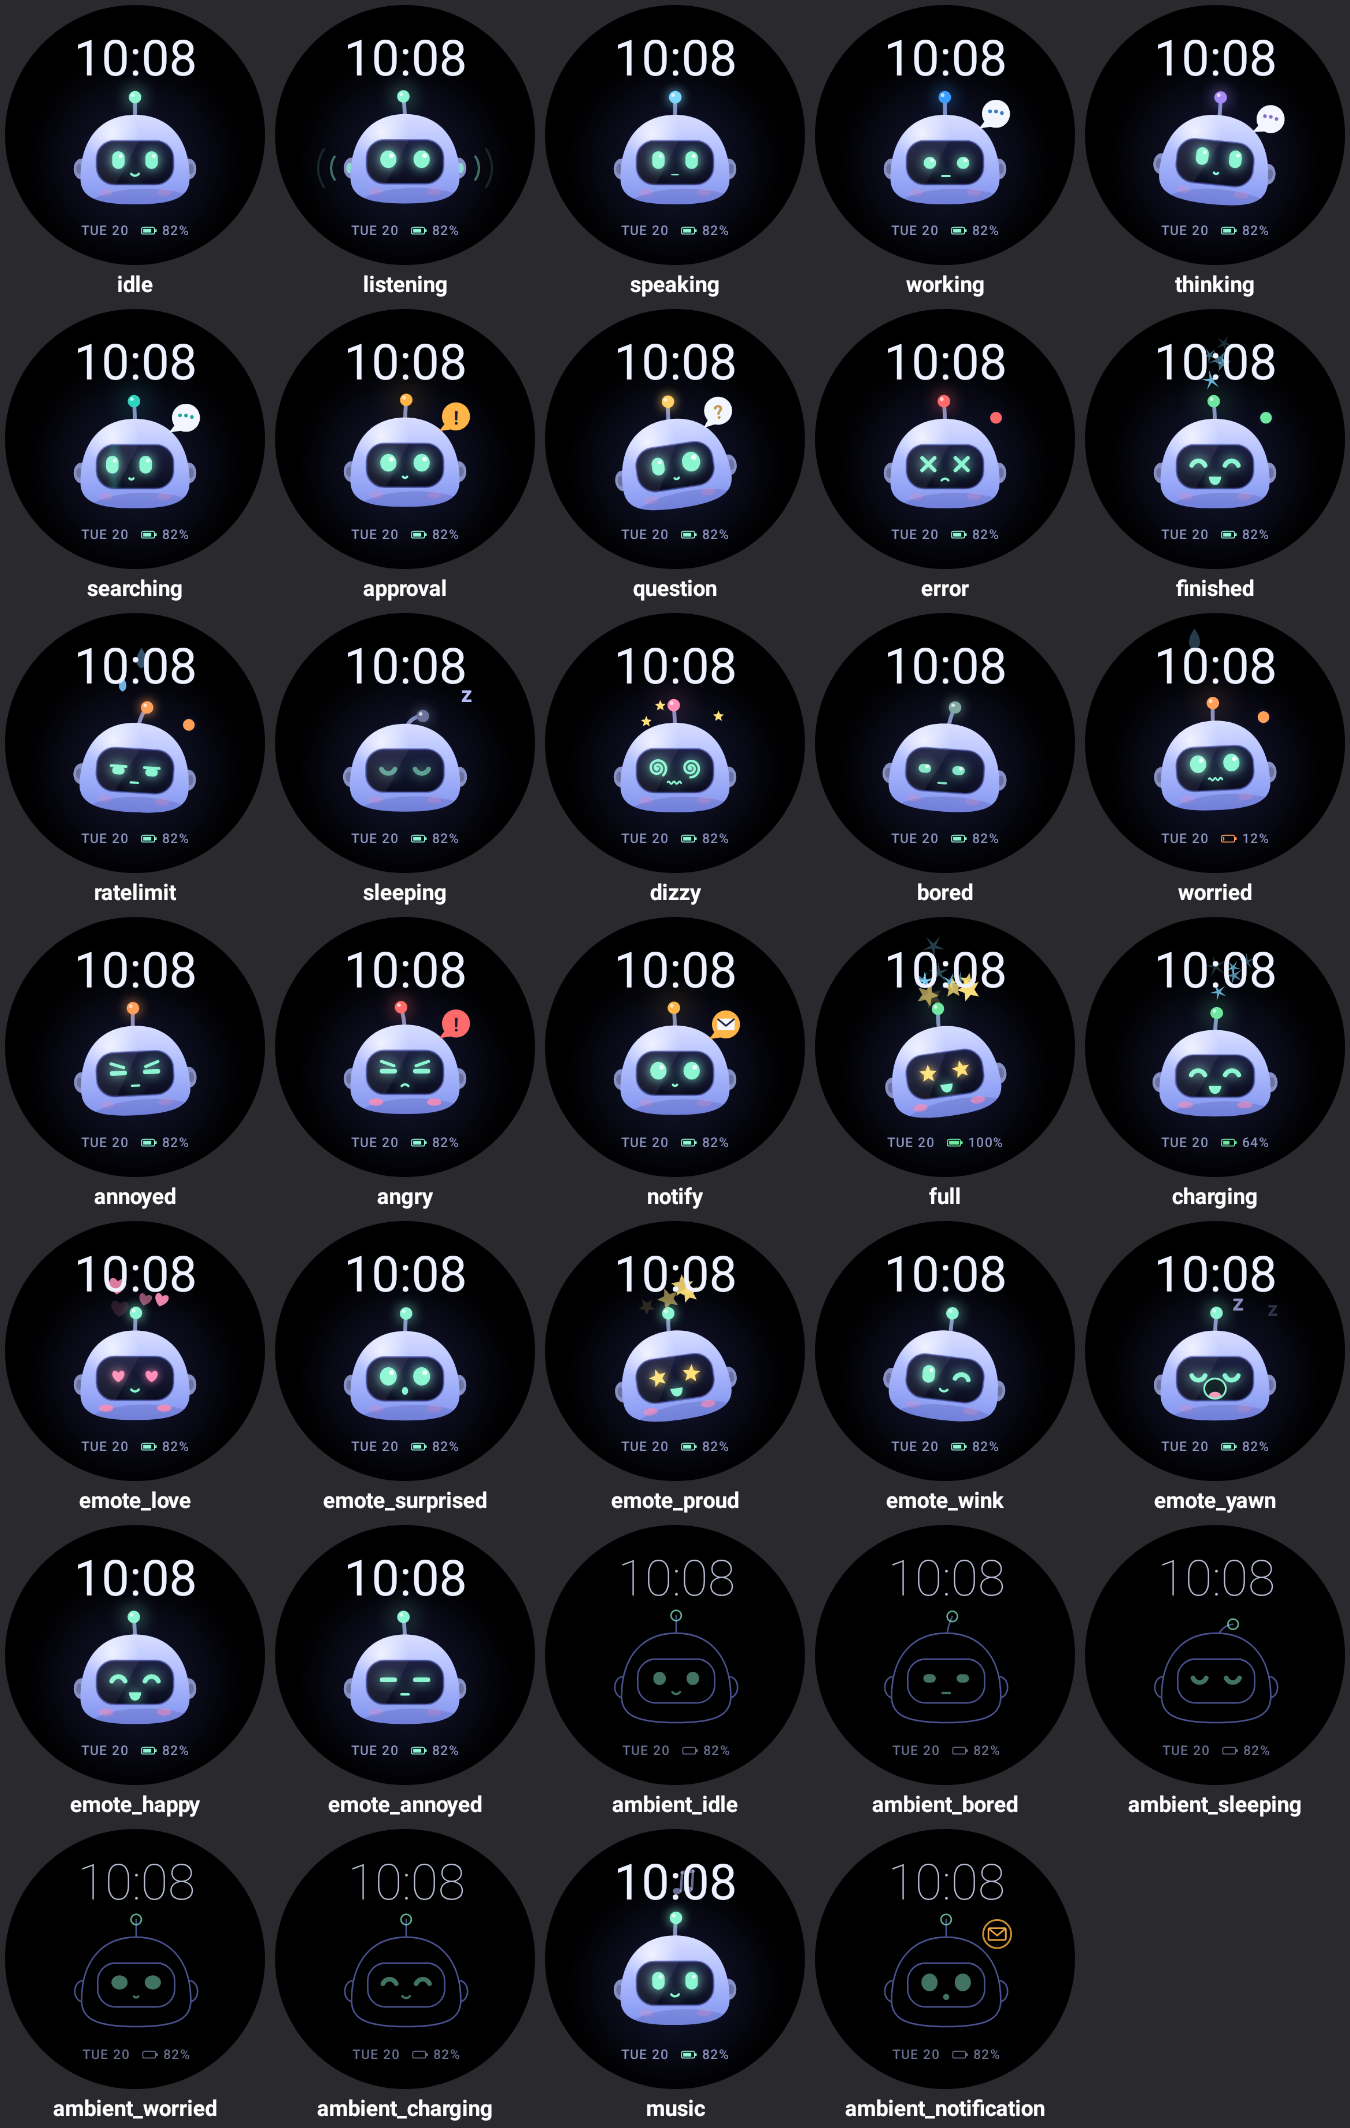
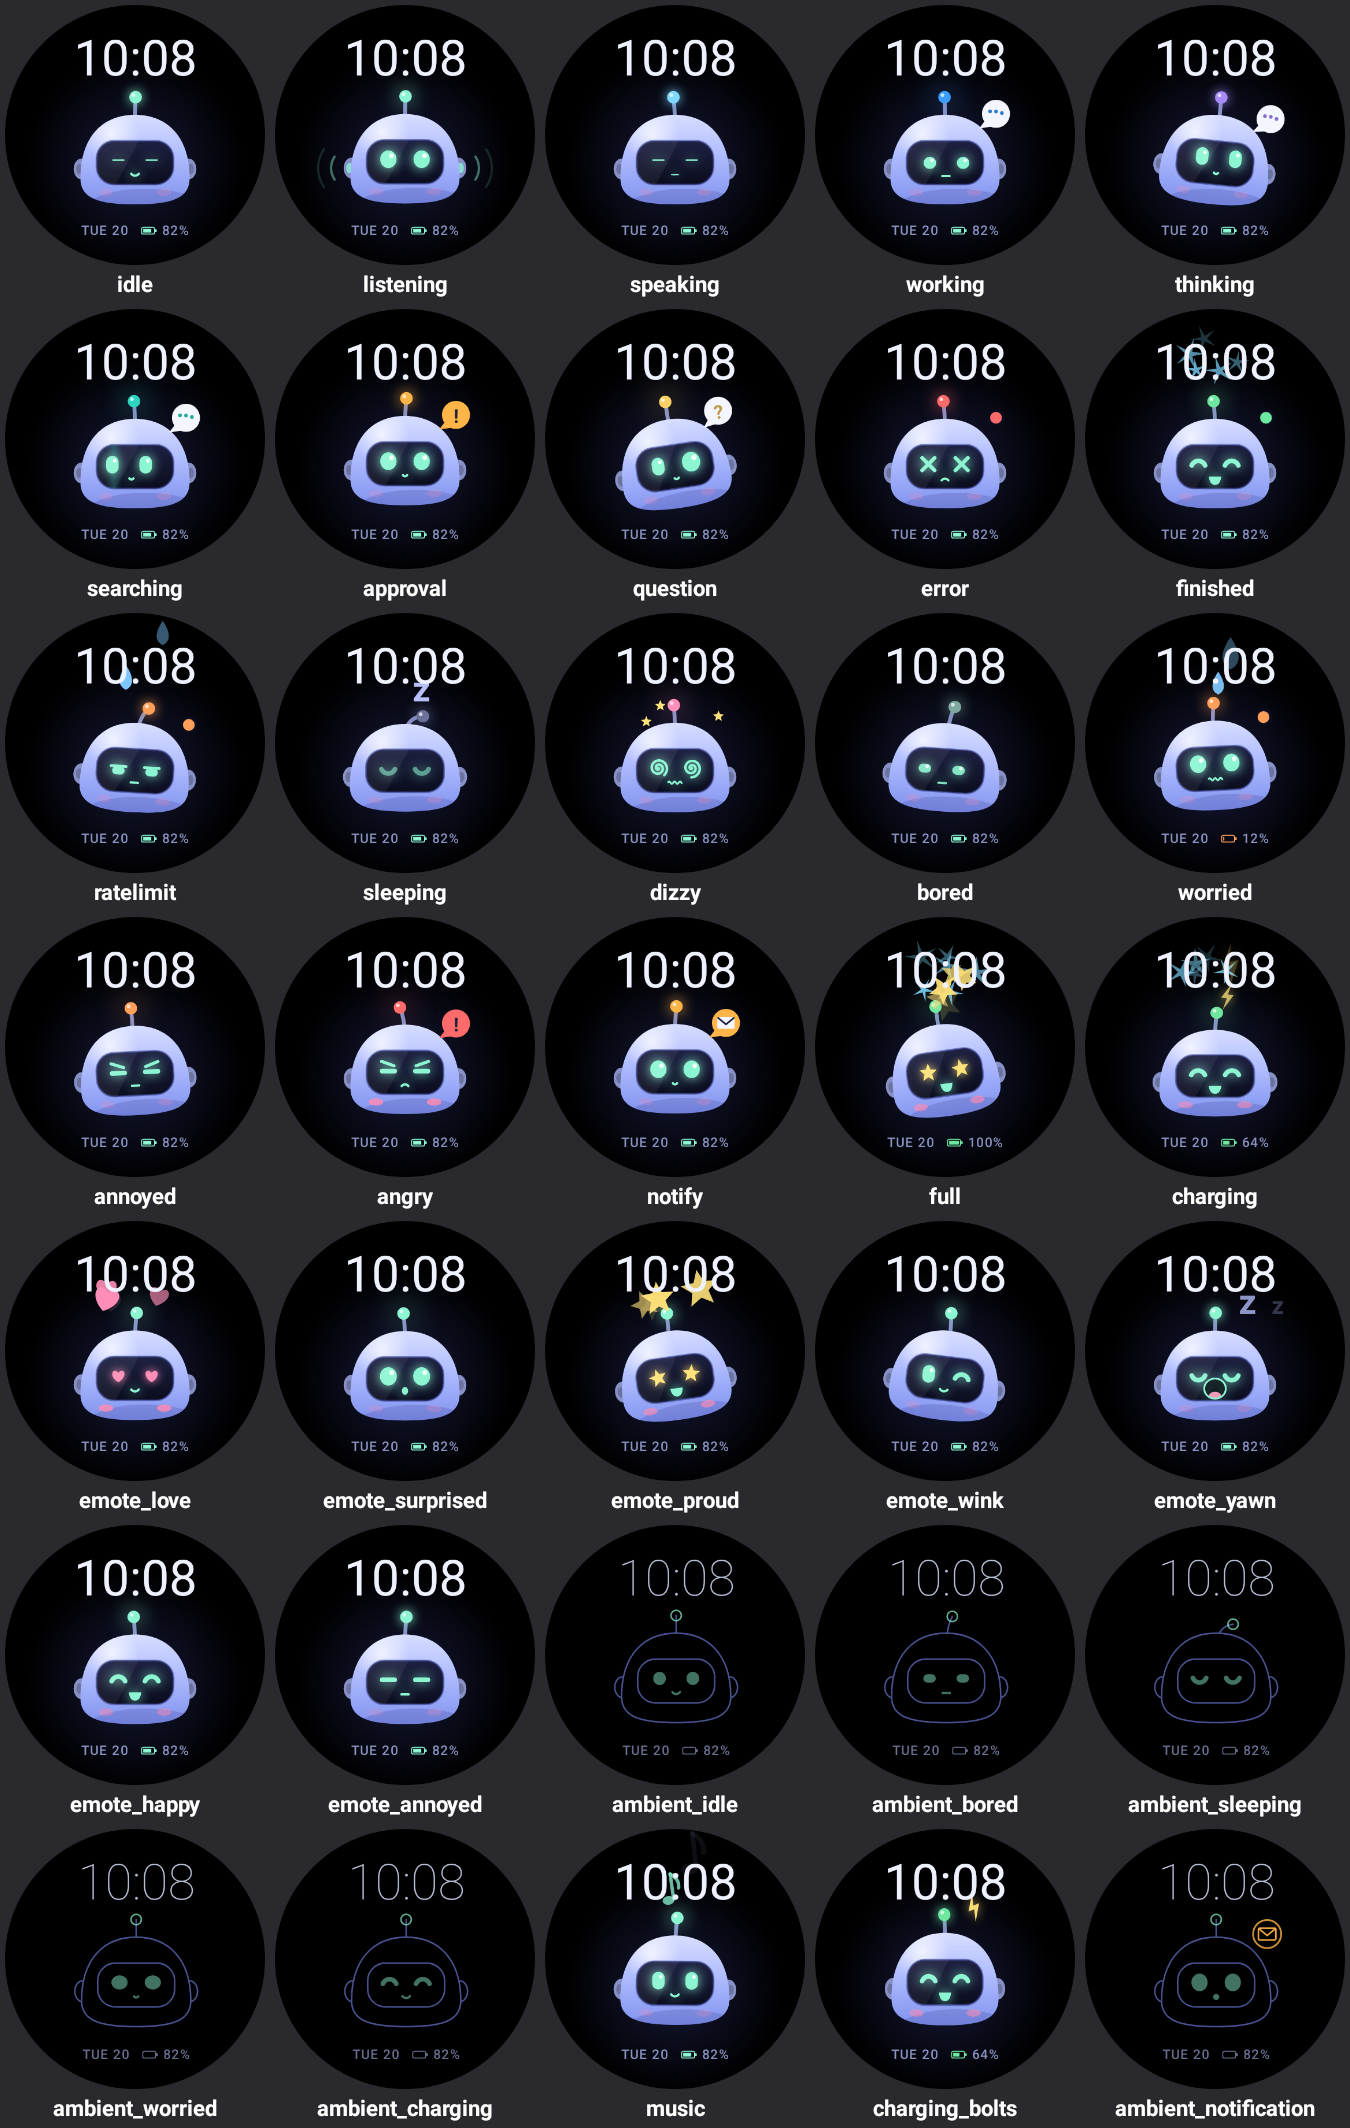
Lightning bolts while charging; particles 1.5x larger

diff --git a/avatar/src/main/java/com/jarvis/avatar/JarvisRenderer.kt b/avatar/src/main/java/com/jarvis/avatar/JarvisRenderer.kt
@@ -422,6 +422,18 @@ class JarvisRenderer {
         c.restore()
     }
 
+    /** A lightning bolt about 2·s tall, centred on the origin. */
+    private fun boltPath(p: Path, s: Float) {
+        p.reset()
+        p.moveTo(s * 0.25f, -s)
+        p.lineTo(-s * 0.45f, s * 0.12f)
+        p.lineTo(-s * 0.02f, s * 0.12f)
+        p.lineTo(-s * 0.25f, s)
+        p.lineTo(s * 0.45f, -s * 0.15f)
+        p.lineTo(s * 0.02f, -s * 0.15f)
+        p.close()
+    }
+
     /** A music note (♪, or ♫ when [double]) centred on the origin, about 2·s tall. */
     private fun noteGlyph(c: Canvas, s: Float, double: Boolean, fillIt: Boolean) {
         stroke.strokeWidth = s * 0.22f
@@ -553,7 +565,7 @@ class JarvisRenderer {
             val a = if (k < 0.2f) k / 0.2f else 1f - (k - 0.2f) / 0.8f
             val px = cx + (p.x + p.vx * p.age) * r * 1.3f
             val py = cy + (p.y + p.vy * p.age) * r * 1.3f
-            val sz = r * p.size * (1f + k * 0.4f)
+            val sz = r * p.size * PARTICLE_SCALE * (1f + k * 0.4f)
             val alpha = clamp(a, 0f, 1f)
             c.save()
             c.translate(px, py)
@@ -583,6 +595,14 @@ class JarvisRenderer {
                     path.quadTo(sz * 0.8f, sz * 0.2f, 0f, sz * 0.6f)
                     path.quadTo(-sz * 0.8f, sz * 0.2f, 0f, -sz)
                     c.drawPath(path, fill)
+                }
+                ParticleType.BOLT -> {
+                    c.rotate((sin(p.age * 7f + p.rot) * 0.25f - 0.15f) * RAD2DEG)
+                    fill.color = withAlpha(Palette.GOLD, alpha)
+                    fill.setShadowLayer(sz * 0.6f, 0f, 0f, withAlpha(Palette.GOLD, alpha * 0.8f))
+                    boltPath(path, sz)
+                    c.drawPath(path, fill)
+                    fill.clearShadowLayer()
                 }
                 ParticleType.NOTE -> {
                     c.rotate(sin(p.age * 5f + p.rot) * 0.35f * RAD2DEG)
@@ -680,6 +700,9 @@ class JarvisRenderer {
 
     private companion object {
         val SIDES = floatArrayOf(-1f, 1f)
+
+        /** Hearts, notes, bolts, stars… drawn this much larger than on desktop (small screen). */
+        const val PARTICLE_SCALE = 1.5f
 
         /** Canvas2D shadowBlur → Android shadow radius (σ = blur/2, radius ≈ σ / 0.577). */
         fun blur(canvasBlur: Float) = max(0.5f, canvasBlur * 0.85f)

diff --git a/avatar/src/main/java/com/jarvis/avatar/JarvisEngine.kt b/avatar/src/main/java/com/jarvis/avatar/JarvisEngine.kt
@@ -18,7 +18,7 @@ import kotlin.random.Random
 // Drive it with update(nowSeconds) once per frame, then pose(r, out).
 // Steady-state frames allocate nothing; triggering an action allocates its keyframes.
 
-enum class ParticleType { HEART, STAR, SPARK, SWEAT, Z, NOTE }
+enum class ParticleType { HEART, STAR, SPARK, SWEAT, Z, NOTE, BOLT }
 
 class Particle {
     var alive = false
@@ -81,6 +81,7 @@ class JarvisEngine {
     private var badgeColor = Palette.MINT
     private var badgeToken = 0
     private var nextNote = 0f
+    private var nextBolt = 0f
     private var groove = 0f
     private var mailS = 0f
     private var mailV = 0f
@@ -210,7 +211,7 @@ class JarvisEngine {
             if (made >= count) break
             if (p.alive) continue
             val isZ = type == ParticleType.Z
-            val isNote = type == ParticleType.NOTE
+            val isNote = type == ParticleType.NOTE || type == ParticleType.BOLT
             p.alive = true
             p.type = type
             p.x = (Random.nextFloat() - 0.5f) * 0.9f + (if (isZ) 0.55f else 0f)
@@ -297,6 +298,10 @@ class JarvisEngine {
         // Music: a gentle sway (~100 bpm) that fades in and out, notes every ~0.8 s.
         groove += ((if (music) 1f else 0f) - groove) * (1f - 0.05f.pow(dt))
         if (groove > 0.01f) tgTilt += sin(t * 5.2f) * 0.07f * groove
+        if (cfg == BotState.CHARGING && n > nextBolt) {
+            emit(ParticleType.BOLT, 1)
+            nextBolt = n + 0.7f + Random.nextFloat() * 0.6f
+        }
         if (music && n > nextNote && cfg != BotState.SLEEPING) {
             emit(ParticleType.NOTE, 1)
             nextNote = n + 0.6f + Random.nextFloat() * 0.5f

diff --git a/watchface/src/test/java/com/jarvis/watchface/ScreenshotTest.kt b/watchface/src/test/java/com/jarvis/watchface/ScreenshotTest.kt
@@ -58,6 +58,7 @@ class ScreenshotTest {
             })
         }
         shots += Shot("music", frame { e -> e.music = true; 3.0f })
+        shots += Shot("charging_bolts", frame(battery = 64, charging = true) { e -> e.setState(BotState.CHARGING, force = true); 3.2f })
         shots += Shot("ambient_notification", frame(ambient = true, alert = true) { e -> e.update(0.5f); 0.5f })
         shots.forEach { save(it.name, it.bitmap) }
         save("_contact_sheet", sheet(shots))
